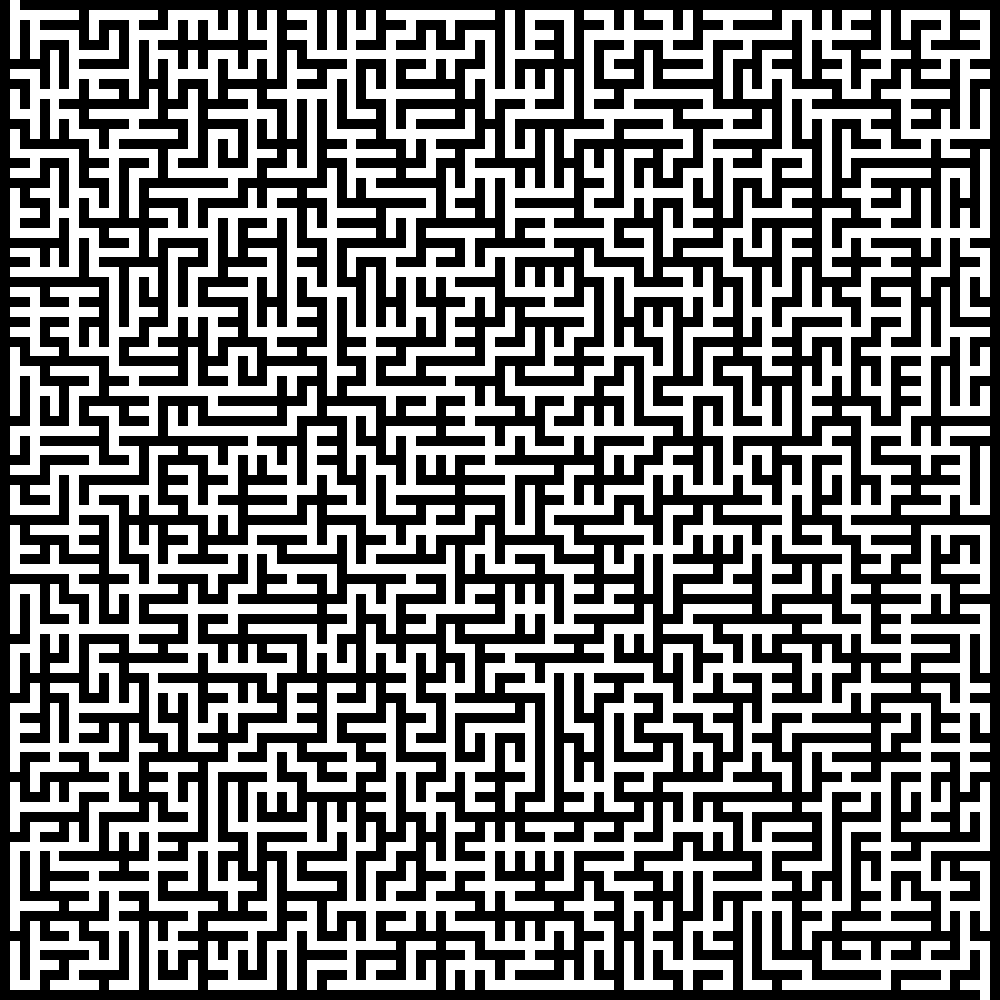
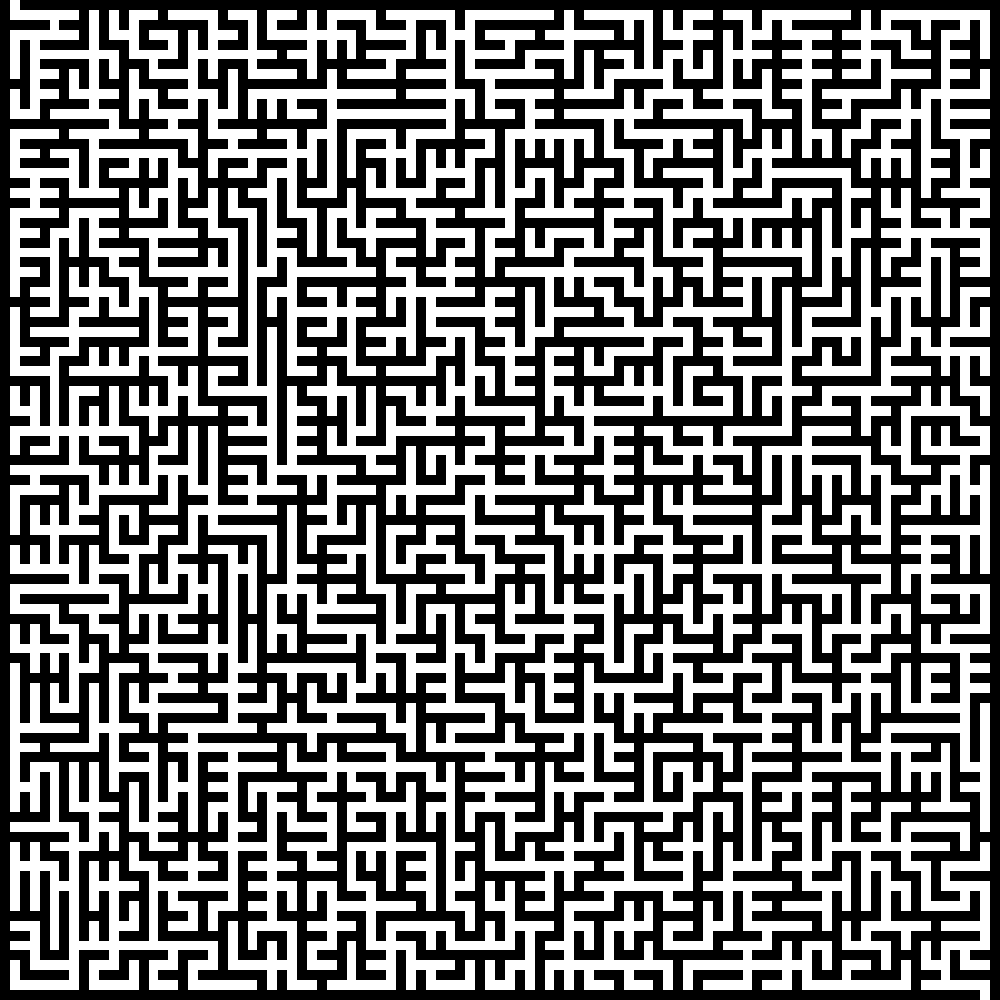
add non-recursive solution finder

Changed region(s): [[0.0, 0.0, 0.992, 0.992]]

diff --git a/mazeGenerator.py b/mazeGenerator.py
@@ -122,29 +122,30 @@ def solveMaze(mazeList, mazeSize, imageSize):
     # setup variables for solving the maze
     startingSpace = mazeList[0][1]
     endSpace = mazeList[mazeSize - 1][mazeSize - 2]
-    searchedSpaces = [mazeList[0][1]]
+    searchedSpaces = [startingSpace]
+    spaceStack = [startingSpace]
 
-    # solve recursively 
-    solveSpace(startingSpace, searchedSpaces, endSpace)
+    while len(spaceStack) > 0:
+        currentSpace = spaceStack.pop()
+
+        # if the current space is the end
+        if currentSpace == endSpace:
+            break
+
+        # add neighboring spaces to the stack to be checked
+        for space in currentSpace.neighbors:
+            if not space in searchedSpaces:
+                searchedSpaces.append(space)
+                spaceStack.append(space)
+                space.parentSpace = currentSpace
+
+    # backtrack and mark all parent spaces that got to the end
+    while currentSpace != None:
+        currentSpace.spaceType = SpaceType.solvedSpace
+        currentSpace = currentSpace.parentSpace
 
     # draw the maze
     drawMaze(mazeList, mazeSize, imageSize, 'mazeSolution.png')
-
-def solveSpace(currentSpace, searchedSpaces, endSpace):
-
-    # base case: current space is the end of the maze
-    if currentSpace == endSpace:
-        currentSpace.spaceType = SpaceType.solvedSpace
-        return True
-    
-    # check each neighboring space individually
-    for space in currentSpace.neighbors:
-        if not space in searchedSpaces:
-            searchedSpaces.append(space)
-
-            if solveSpace(space, searchedSpaces, endSpace):
-                currentSpace.spaceType = SpaceType.solvedSpace
-                return True
 
 if __name__ == "__main__":
     while True:
@@ -185,6 +186,7 @@ if __name__ == "__main__":
         # solve the maze if the user wants
         displaySolution = input("Do you want to see the solution? ")
         if displaySolution.lower().startswith("y"):
+            print("Please wait... ")
             solveMaze(mazeList, mazeSize, imageSize)
 
         # check if the user wants to continue

diff --git a/mazeSpace.py b/mazeSpace.py
@@ -13,3 +13,4 @@ class MazeSpace:
     def __init__(self, spaceType):
         self.spaceType = spaceType
         self.neighbors = []
+        self.parentSpace = None
